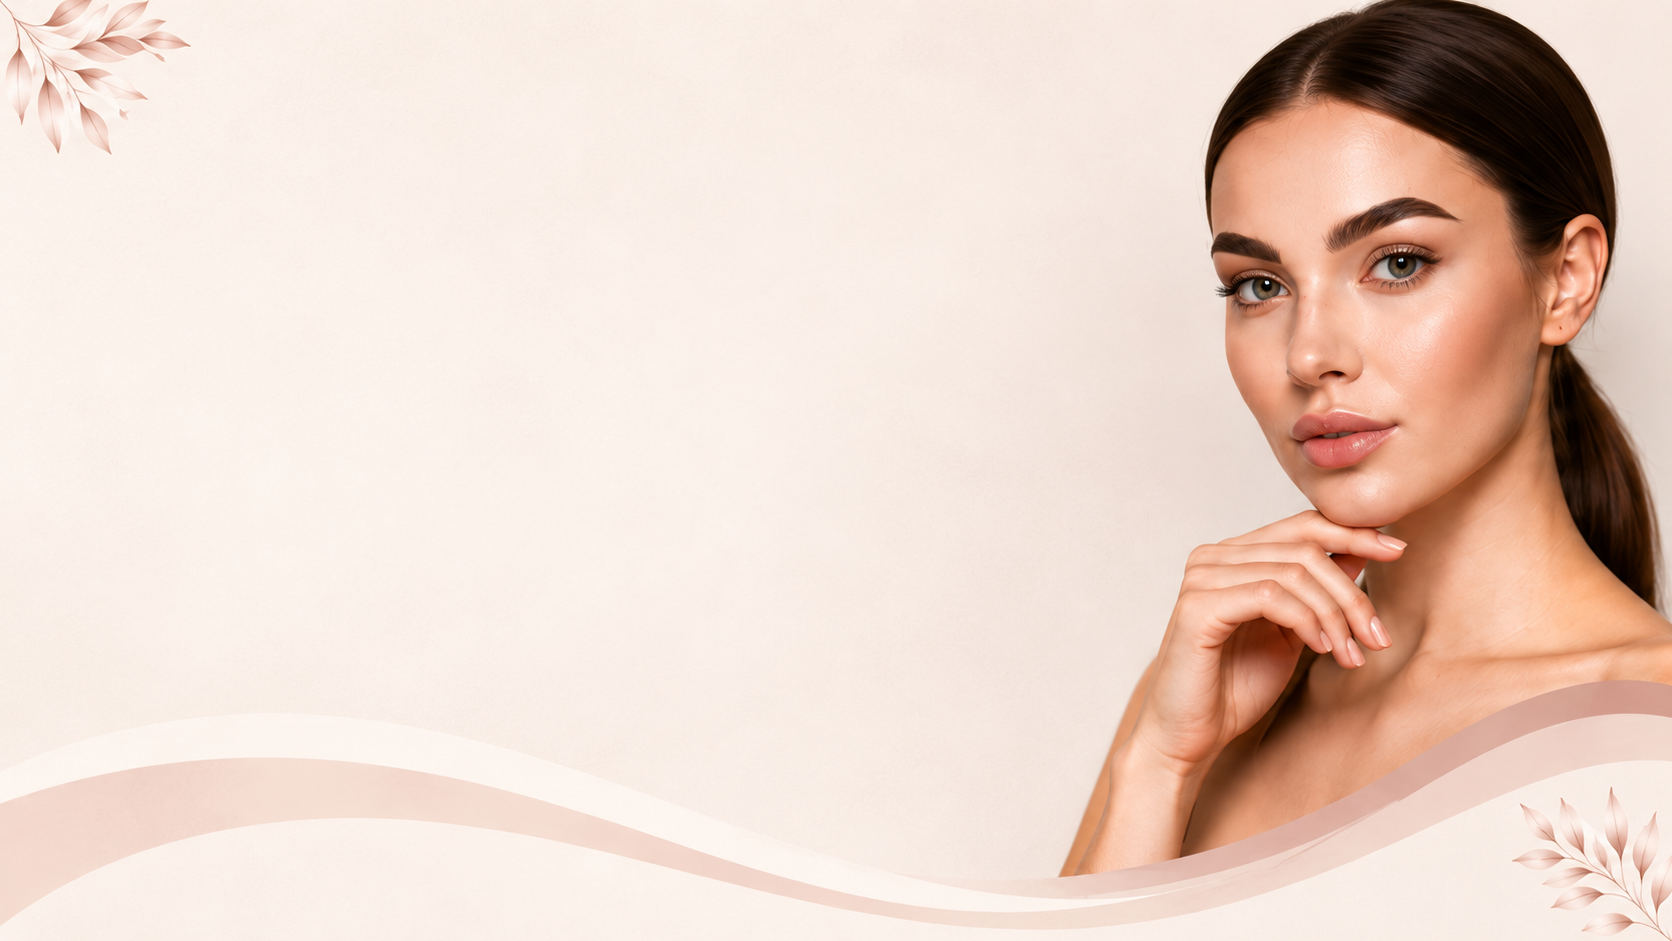
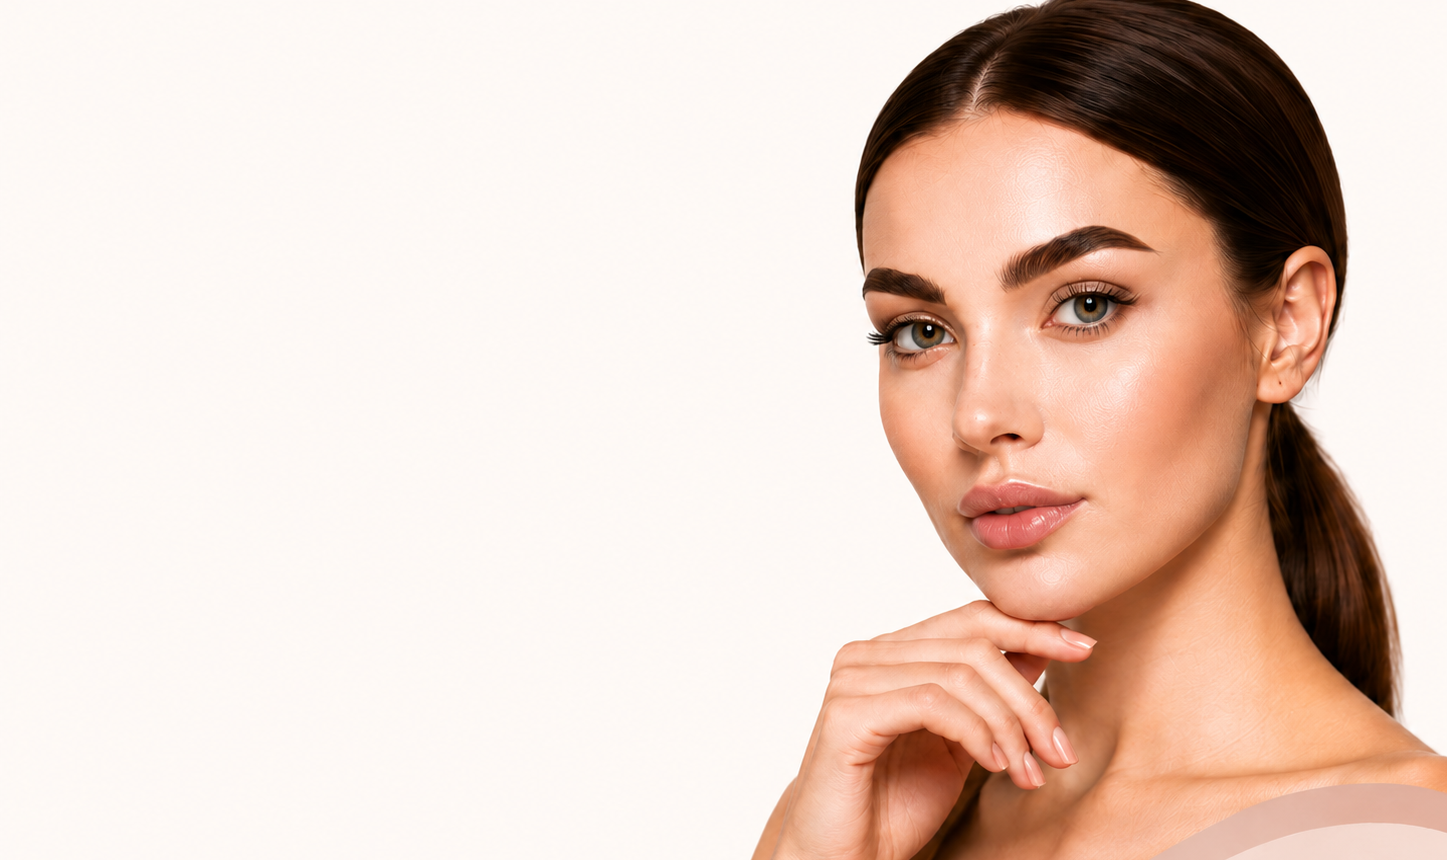
create hero section

diff --git a/css/style.css b/css/style.css
@@ -40,7 +40,7 @@
         
         & .menu__link { 
             text-decoration: none;
-            font-size: clamp(1.1rem, 1.4vw, 1.2rem);
+            font-size: clamp(1.15rem, 2vw, 1.4rem);
             padding: clamp(5px, 0.4vw, 10px);
             border-radius: 8px;
             color: var(--color-text);
@@ -51,5 +51,42 @@
         & .active { 
             background-color: var(--color-footer);
         }        
+    }
+}
+
+.hero {
+    background-image: url(../assets/images/Background-1.png);
+    background-repeat: no-repeat;
+    background-position: center top;
+    background-size: 100% auto;
+    aspect-ratio: 1440 / 860;
+
+    & .hero__text-big {
+        margin: 0;
+        padding: 4vw 0 0 14vw;
+        font-size: clamp(2.2rem, 3.8vw, 5rem);
+    }
+
+    & .hero__accent {
+        color: var(--color-accent);
+    }
+
+    & .hero__text-desc {
+        margin: 0;
+        padding: 4vw 0 0 14vw;
+        font-size: clamp(1.2rem, 2.5vw, 1.8rem);    
+    }
+
+        & .hero__button { 
+            margin: 3.6vw 0 0 13.8vw; 
+            padding: 
+                clamp(12px, 2vw, 18px)
+                clamp(18px, 3vw, 34px);
+            font-size: clamp(1rem, 2vw, 1.2rem);
+            color: var(--color-card);
+            background-color: var(--color-accent);
+            border: 0;
+            border-radius: 5px;
+
     }
 }

diff --git a/index.html b/index.html
@@ -54,6 +54,13 @@
         </nav>
     </header>
 
+    <section class="hero">
+        <p class="hero__text-big">Ваши идеальные <br>брови &mdash; <span class="hero__accent">наша <br>экспертиза</span></p>
+        <p class="hero__text-desc">Подчеркнём вашу естественную <br><span class="hero__accent">красоту</span> с особым вниманием <br>и профессионализмом</p>
+        <p class="hero__text-desc">Напишите нам — подберём <br><span class="hero__accent">удобное время</span>  для записи</p>
+        <button class="hero__button">Записаться онлайн &emsp; &rarr;</button>
+    </section>
+
     
     <script src="js/main.js"></script>
 </body>

diff --git a/css/veriables.css b/css/veriables.css
@@ -10,5 +10,7 @@
 
     --color-text: #24211F;
     --color-text-muted: #625956;
-    --color-border: #E9D8CF;    
+    --color-border: #E9D8CF;  
+
+    --color-edit: #F9F1EB;
 }
